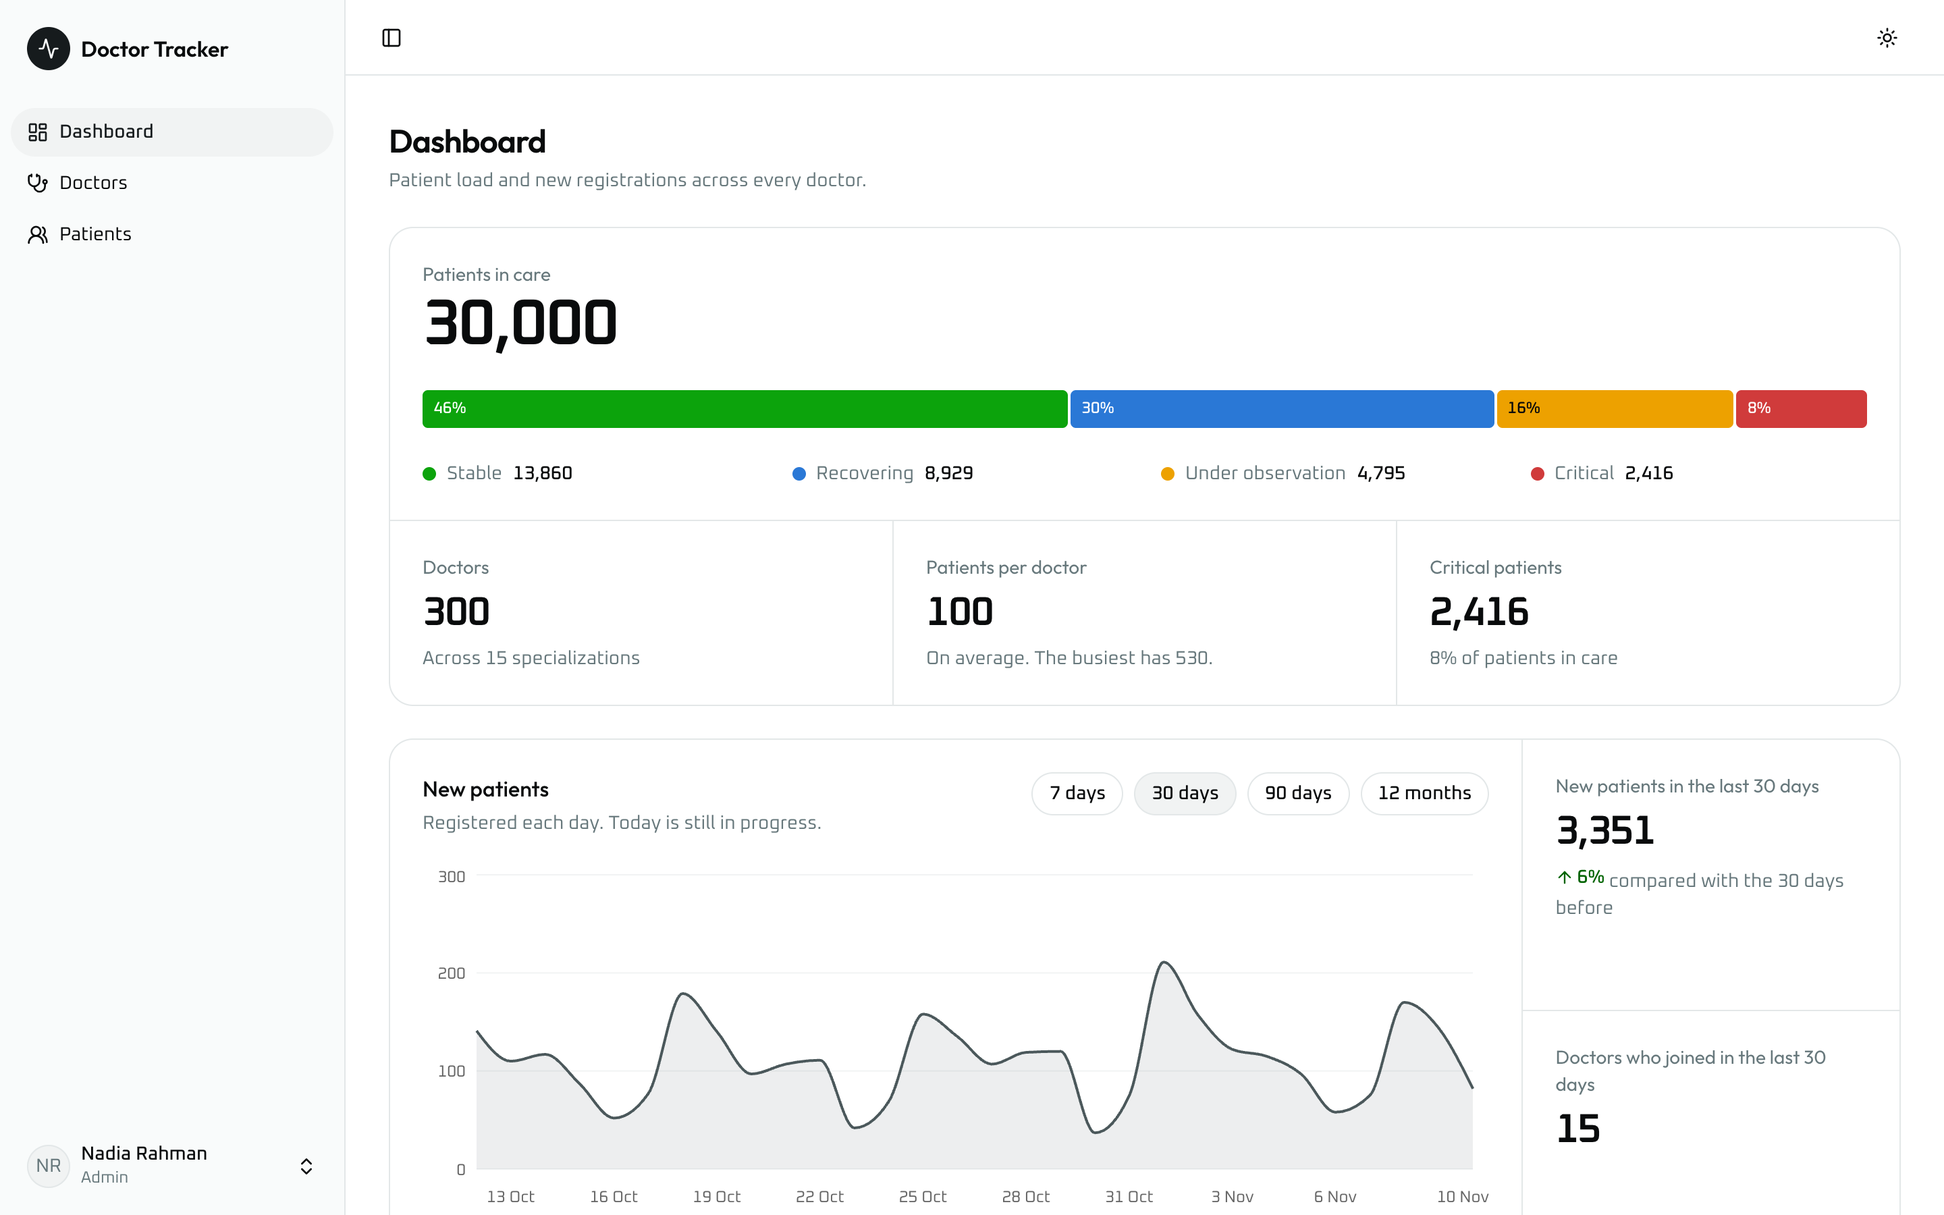
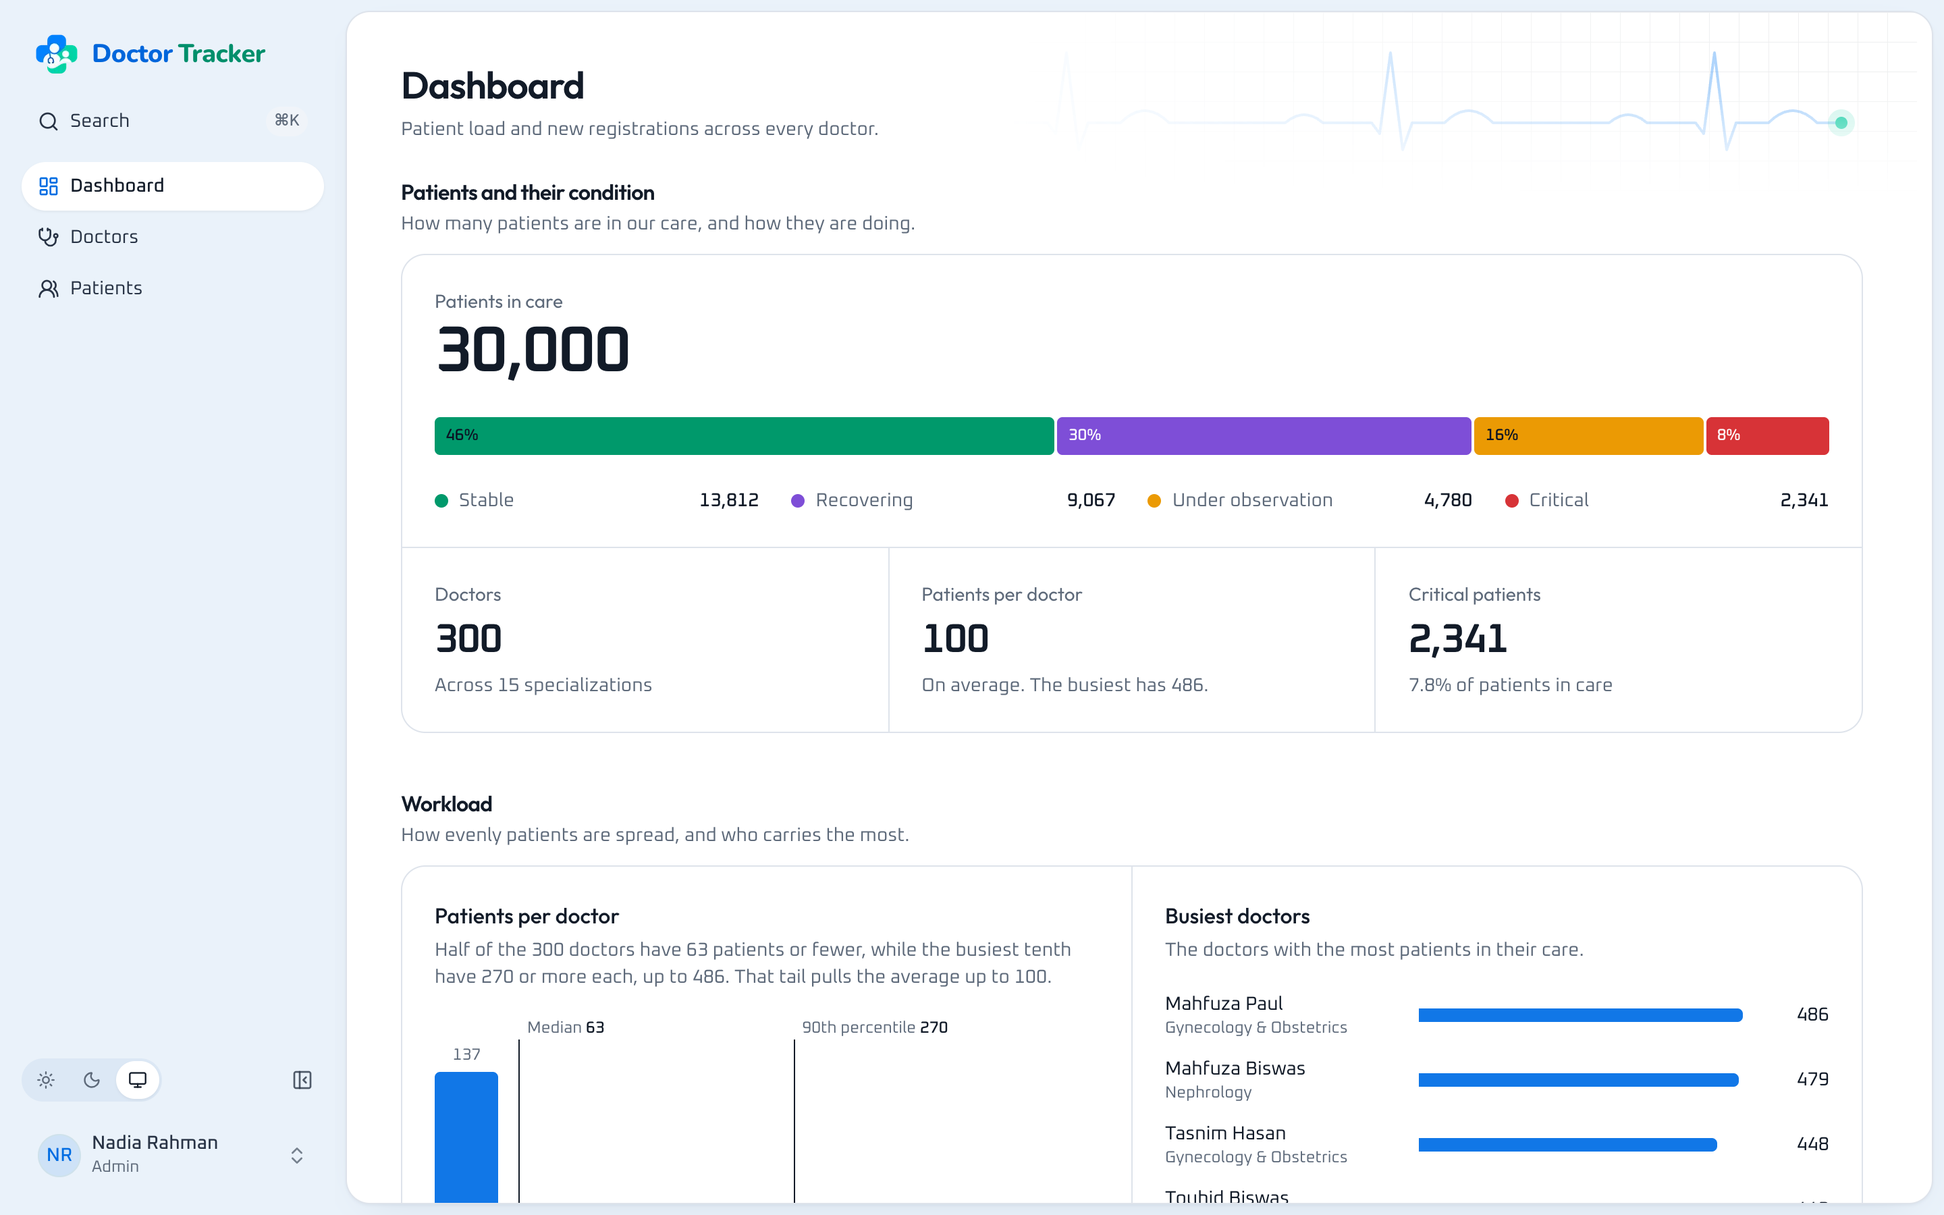
docs: rewrite the README for the new tables, palette, charts and brand, with fresh screenshots

diff --git a/README.md b/README.md
@@ -1,6 +1,15 @@
 # Doctor Tracker
 
-Doctor Tracker is an admin portal for clinics that need to see, at a glance, who their doctors are and how the patients in their care are doing. Signed-in staff can search and filter hundreds of doctors and tens of thousands of patients in a few keystrokes, add and update records, and read a dashboard that puts patient condition first: one bar shows how many patients are stable, recovering, under observation or critical. This repository is the Next.js frontend. It talks to a separate Express and MongoDB API, in the `doctor-tracker-backend` repository, through a client generated from that API's OpenAPI document.
+Doctor Tracker is an admin portal for clinics that need to see, at a glance, who their doctors are and how the patients in their care are doing. Signed-in staff can search, filter and sort hundreds of doctors and tens of thousands of patients in a few keystrokes, add and update records, and read a dashboard that answers the questions an operations lead asks: how are our patients doing, is the load spread evenly, where are the critical cases, and when do people arrive. This repository is the Next.js frontend. It talks to a separate Express and MongoDB API, in the `doctor-tracker-backend` repository, through a client generated from that API's OpenAPI document.
+
+| Area | What is there |
+| --- | --- |
+| Sign-in and access | Email and password against the API's sessions. Every page behind sign-in is protected. Admins can change records; viewers can only read, and the add, edit and delete controls are not rendered for them. |
+| Doctors | Add, edit and delete. Search by name, hospital, phone or email. Filter by specialization, hospital and date added. Sort by name, specialization, hospital, patient count or date added. Each row shows the doctor's patient count beside its split by condition. |
+| A doctor's page | Contact details, three charts about that doctor's patients, and their patient list with its own search, filters and sorting. Add a patient under the doctor, edit one, or delete one from the list. |
+| Patients | Every patient, with search by name, diagnosis or phone, filters for condition, gender, doctor and registration date, sorting (including by severity), paging, edit and delete. |
+| Dashboard | Totals, patients per doctor, the condition breakdown, how evenly the load is spread, where the critical patients are, registrations over time and by weekday and hour, age and gender. |
+| Everywhere | A command palette on `⌘K` / `Ctrl K`, light and dark themes, and layouts for phone, tablet and desktop. |
 
 ## Stack
 
@@ -11,7 +20,7 @@ Doctor Tracker is an admin portal for clinics that need to see, at a glance, who
 - **URL state:** nuqs
 - **Forms:** React Hook Form and Zod 4
 - **Client state:** Zustand, for interface preferences only
-- **Charts:** Recharts, plus plain CSS bars
+- **Charts:** Recharts for the two charts that need axes, plain HTML and CSS for the rest
 - **Auth:** better-auth client, against sessions issued by the API
 
 ## Setup guide
@@ -82,10 +91,10 @@ flowchart LR
 How a page loads:
 
 1. **Guard.** `proxy.ts` checks for a session cookie and redirects signed-out visitors to `/login` before anything renders.
-2. **Static shell.** The sidebar, header and page title are prerendered at build time, so they appear immediately.
+2. **Static shell.** The sidebar, the page title and its artwork, and the loading skeletons are prerendered at build time, so they appear immediately.
 3. **Server fetch.** Inside a Suspense boundary, a server component verifies the session against the API, reads the filters from the URL, and fetches the first page of data with the visitor's cookie.
 4. **Hydration.** That data is sent in the HTML and placed in the TanStack Query cache, so the table is already rendered when JavaScript loads and the browser does not fetch it again.
-5. **Interaction.** From then on, search, filters and paging change the URL, and TanStack Query fetches through `/api/*`, which Next.js rewrites to the API.
+5. **Interaction.** From then on, search, filters, sorting and paging change the URL, and TanStack Query fetches through `/api/*`, which Next.js rewrites to the API.
 
 The browser never calls the API's own domain. Because every request goes through the Next.js origin, the session cookie is first-party and httpOnly, there is no CORS setup, and no token is ever readable from JavaScript.
 
@@ -95,7 +104,7 @@ Access is enforced in three places: the proxy (is there a cookie?), the server c
 src/
   app/
     (auth)/login/          Sign-in page
-    (app)/                 Signed-in area: layout with sidebar and header
+    (app)/                 Signed-in area: sidebar, page panel, command palette
       dashboard/           Analytics
       doctors/             List, and [id] for a doctor's profile and patients
       patients/            List
@@ -103,16 +112,20 @@ src/
   features/
     auth/ doctors/ patients/ dashboard/
                            Each holds its queries, URL params, form schema and components
+    search/                Command palette: frame, lazily loaded body, search hook
   components/
     ui/                    shadcn/ui components
-    data-table/            Shared table, pagination, search, filters, date range
-    app-shell/             Sidebar, header, user menu
+    data-table/            Shared table: sorting, pinning, row menus, pagination, filters
+    charts/                Shared tooltip, keyboard navigation and table view for charts
+    app-shell/             Sidebar, mobile top bar, user menu
+    brand.tsx              Logo and two-colour wordmark
+    page-motif.tsx         The artwork behind each page title
   lib/
     api/                   Generated client, runtime config, ApiError
     session.ts             Server-only: current user and cookie forwarding
     query-client.ts        Query defaults, retry rules, sign-out on 401
-    list-params.ts         URL state shared by every list
-  stores/preferences.ts    Theme and table row spacing
+    list-params.ts         URL state shared by every list, including sort keys
+  stores/preferences.ts    Theme, table row spacing and pinned columns
 ```
 
 ## Technical decisions
@@ -124,10 +137,10 @@ The usual answer to "where does state live" is a single store such as Redux. In 
 | State | Lives in | Why |
 | --- | --- | --- |
 | Doctors, patients, analytics | TanStack Query | It is the server's data. Query handles caching, deduplication, retries, background refresh and invalidation, which a hand-written store would have to reimplement. |
-| Search, filters, sort, page | The URL, through nuqs | A filtered list can be bookmarked, shared and reloaded, and the back button works. The server can also read it, which is what makes the first page server-rendered. |
-| Theme and table row spacing | Zustand, persisted to `localStorage` | The only true global client state: two preferences that many components read. |
+| Search, filters, sort, page, dashboard period | The URL, through nuqs | A filtered, sorted list can be bookmarked, shared and reloaded, and the back button works. The server can also read it, which is what makes the first page server-rendered. |
+| Theme, table row spacing, pinned columns | Zustand, persisted to `localStorage` | The only true global client state: preferences about how the interface looks, which belong to the person and not to a link. |
 
-Zustand over Redux for that last row because the store is under forty lines with no reducers or provider, and a component subscribes to just the field it uses. Redux's strengths, such as middleware, time-travel debugging and strict update patterns, pay off when a large amount of client-owned state changes in complex ways. Here almost nothing is client-owned.
+Zustand over Redux for that last row because the store is under fifty lines with no reducers or provider, and a component subscribes to just the field it uses. Redux's strengths, such as middleware, time-travel debugging and strict update patterns, pay off when a large amount of client-owned state changes in complex ways. Here almost nothing is client-owned.
 
 What this buys in practice:
 
@@ -144,47 +157,92 @@ An authenticated dashboard is commonly built as a client-only app: ship an empty
 
 This app uses Next.js 16's Cache Components to split each page in two:
 
-- **The shell is static.** Sidebar, header, page title and loading skeletons contain nothing user-specific, so they are prerendered at build time and served instantly.
+- **The shell is static.** Sidebar, page title, artwork and loading skeletons contain nothing user-specific, so they are prerendered at build time and served instantly.
 - **The data streams in.** Each page wraps its data in a Suspense boundary. Inside it, a server component reads the URL and the session, fetches the first page from the API with the visitor's cookie, and passes it to TanStack Query through a hydration boundary. The finished table arrives in the same response as real HTML.
 
 After that the browser owns the data, so filtering and paging are client-side fetches with no full page render.
 
-Two details made this work correctly:
+Three details made this work correctly:
 
 - **Session reads are kept out of the layout.** An early version looked up the user at the top of the signed-in layout. That made the entire shell wait for the session, left the prerendered page empty, and produced a server warning on every request. The user menu and the admin-only buttons now each sit in their own small boundary, and the shell is static again. The production build lists every signed-in route as partially prerendered.
-- **Time-zone-dependent requests stay in the browser.** A date filter means "the visitor's days", and the dashboard's daily chart groups by the visitor's time zone, which the server cannot know. Those two requests are skipped on the server and fetched after load, rather than being fetched twice with different parameters.
+- **Time-zone-dependent requests stay in the browser.** A date filter means "the visitor's days", and the dashboard's daily chart and arrival heatmap group by the visitor's time zone, which the server cannot know. Those requests are skipped on the server and fetched after load, rather than being fetched twice with different parameters. On the dashboard they also wait until their section is within a screen of the viewport, so on a laptop screen the dashboard opens without a single API call from the browser, and the last two arrive as someone scrolls towards them.
+- **Nothing shifts when the data lands.** The page panel reserves its scrollbar gutter, and skeletons are sized to the finished content, so a list that grows past the fold does not push the layout sideways.
 
 The trade-off is more moving parts than a client-only app: query keys must match exactly between server and browser, so both build their request through the same function (`toDoctorQuery`, `toPatientQuery`).
 
-### Smaller choices
+### Other decisions
+
+**Tables**
+
+- **Sorting is the API's job.** With 30,000 patients the browser only ever holds one page, so it cannot sort. Each sortable column maps to a sort key the API accepts, and each key is the order of a MongoDB index (the backend README lists them). Condition sorts by severity, not alphabetically, so "critical first" is one click.
+- **Columns can be pinned.** Any column can be pinned to the left or right from its header menu and stays in place while the rest scroll under it. The name and the actions are pinned by default, and the choice is remembered per table. An edge shadow appears only while something is scrolled underneath.
+- **The row's edge is the patient's condition.** A coloured strip runs down the leading edge of every patient row and stays put during sideways scroll, so a column of red is visible before any text is read. The Condition column still names it in words.
+- **One menu, three ways in.** A row's actions are defined once and rendered by both the three-dot button and a right-click menu, so the two cannot drift apart. Links, form fields and selected text keep the browser's own menu. `Shift F10` and long-press open it as well.
+- **Cards below 768 px.** A seven-column table on a phone is a scrolling exercise, so each row becomes a card there and a dropdown takes over sorting.
+
+**Command palette**
+
+- **It costs nothing until it is used.** The shortcut, the dialog frame and the sidebar trigger are in every page's bundle. The body, with the search and the commands, is a separate chunk that downloads on first open, or as soon as the pointer reaches the Search button. Anything typed before it arrives is kept.
+- **A keystroke is two index scans.** Doctors and patients are searched in parallel through the same indexed prefix search the lists use, five results each, after a 200 ms pause. A newer search cancels the one in flight.
+- **Narrowing a search often needs no request.** If an earlier, broader search returned every match it had, typing more letters filters those rows in the browser. The palette splits words exactly as the API does, so the answer is the same one the server would give.
+- **It knows where it is and who is asking.** On a doctor's page it offers "Add a patient to" that doctor. Viewers are not offered any action that creates a record.
+
+**Charts**
+
+- **Each one answers a question, and says the answer.** The description under a chart's title is a sentence computed from the data, for example "Half of the 300 doctors have 63 patients or fewer, while the busiest tenth have 270 or more each." The chart is the evidence, not a puzzle.
+- **The form follows the question.** A distribution is a histogram with the median and 90th percentile marked. Parts of a whole are one segmented bar. A ranking is a sorted bar list. Two dimensions of time, weekday and hour, are a heatmap. There are no pie charts, because comparing angles is harder than comparing lengths.
+- **Colour means condition, and nothing else.** Green, violet, amber and red are reserved for the four patient conditions wherever they appear: badges, row edges, bars, form controls. Every other mark is one blue. The four colours were checked for separation under the common forms of colour blindness and for contrast in both themes, and no chart relies on colour alone.
+- **Comparable by design.** In the condition mix, critical is always the last segment, so the red ends line up down the rows, and a hairline on each bar marks the clinic-wide critical share to compare against.
+- **Usable without a pointer.** Marks have keyboard focus and tooltips, the heatmap and histograms move with the arrow keys from a single tab stop, and the condition mix and heatmap can each be opened as a plain table.
+- **Local conventions.** The heatmap's week starts on Sunday, as the working week does in Bangladesh, and hours are in the visitor's time zone.
+
+**Look and layout**
+
+- **The theme comes from the logo.** Its blue and mint are the two brand colours, each with a light-theme and a dark-theme shade chosen for contrast, and the wordmark is set in the same two colours.
+- **An inset shell.** The sidebar sits on a tinted plane and the page is one rounded panel beside it, with no top bar on desktop. Search, theme and the collapse control live in the sidebar.
+- **Each page has its own header artwork**, drawn in SVG from the logo's cross: a heartbeat trace on the dashboard, a field of crosses for doctors, a ward board for patients. It is part of the prerendered shell and downloads nothing.
+- **On phones** the sidebar becomes a drawer, and a top bar holds the menu button, the logo and the page's main action, so "Add patient" is always one tap away.
+
+**Smaller choices**
 
 - **Generated API client.** Request and response types come from the API's OpenAPI document, so the two repositories cannot drift apart silently. Form schemas are hand-written for friendly messages but checked against the generated types with `satisfies`.
-- **Colour means condition.** The interface is deliberately neutral, and colour is reserved for patient condition wherever it appears: badges, the dashboard bar, form controls. The four colours were checked for colour-blind separation, and every use pairs the colour with a text label. All other chart marks share one neutral ink.
 - **API errors land on fields.** A validation error from the API is shown under the input it refers to, and a duplicate email is reported on the email field.
-- **Responsive tables.** Tables become stacked cards on small screens instead of scrolling sideways, and the sidebar becomes a drawer.
+- **Missing records and failed loads have their own screens**, each with a way back, so a stale link never ends in a blank page.
 
 ## Visual evidence
 
 ### Desktop
 
-| Dashboard | Dashboard, charts |
+| Dashboard | Workload |
 | --- | --- |
-| ![Dashboard with patients by condition](docs/screenshots/desktop-dashboard.png) | ![Registrations chart and busiest doctors](docs/screenshots/desktop-dashboard-charts.png) |
+| ![Patients in care, split by condition, with totals](docs/screenshots/desktop-dashboard.png) | ![Histogram of patients per doctor beside the busiest doctors](docs/screenshots/desktop-dashboard-workload.png) |
 
-| Doctors | Doctor profile |
+| Arrivals | Critical patients, dark theme |
 | --- | --- |
-| ![Doctors list with search and filters](docs/screenshots/desktop-doctors.png) | ![A doctor's profile and patients](docs/screenshots/desktop-doctor-profile.png) |
+| ![Daily registrations and a weekday by hour heatmap](docs/screenshots/desktop-dashboard-arrivals.png) | ![Condition mix by specialization in the dark theme](docs/screenshots/desktop-dashboard-dark.png) |
 
-| Patients, filtered to critical | Dark theme |
+| Doctors, sorted by patients | Doctor profile |
 | --- | --- |
-| ![Patients list filtered by condition](docs/screenshots/desktop-patients.png) | ![Dashboard in the dark theme](docs/screenshots/desktop-dashboard-dark.png) |
+| ![Doctors list with patient counts and condition bars](docs/screenshots/desktop-doctors.png) | ![A doctor's charts and patient list](docs/screenshots/desktop-doctor-profile.png) |
 
-| Sign in |
-| --- |
-| ![Sign-in page with demo accounts](docs/screenshots/desktop-login.png) |
+| Patients, critical first | Sorting and pinning |
+| --- | --- |
+| ![Patients list sorted by severity with coloured row edges](docs/screenshots/desktop-patients.png) | ![Column menu with sort and pin options over a table scrolled sideways](docs/screenshots/desktop-patients-pinned.png) |
+
+| Right-click menu | Command palette |
+| --- | --- |
+| ![A row's actions opened by right click](docs/screenshots/desktop-patients-context-menu.png) | ![Searching doctors and patients from the command palette](docs/screenshots/desktop-command-palette.png) |
+
+| Patients, dark theme | Sign in |
+| --- | --- |
+| ![Critical patients sorted by age in the dark theme](docs/screenshots/desktop-patients-dark.png) | ![Sign-in page with demo accounts](docs/screenshots/desktop-login.png) |
 
 ### Mobile
 
-| Dashboard | Doctors | Patients | Navigation |
+| Dashboard | Condition mix | Arrival heatmap | Navigation |
 | --- | --- | --- | --- |
-| ![Dashboard on a phone](docs/screenshots/mobile-dashboard.png) | ![Doctors as cards on a phone](docs/screenshots/mobile-doctors.png) | ![Patients as cards on a phone](docs/screenshots/mobile-patients.png) | ![Navigation drawer on a phone](docs/screenshots/mobile-navigation.png) |
+| ![Dashboard on a phone](docs/screenshots/mobile-dashboard.png) | ![Condition mix on a phone](docs/screenshots/mobile-condition-mix.png) | ![Heatmap turned on its side for a phone](docs/screenshots/mobile-heatmap.png) | ![Navigation drawer on a phone](docs/screenshots/mobile-navigation.png) |
+
+| Doctors | Patients | Doctor profile |
+| --- | --- | --- |
+| ![Doctors as cards on a phone](docs/screenshots/mobile-doctors.png) | ![Patients as cards on a phone](docs/screenshots/mobile-patients.png) | ![A doctor's profile on a phone](docs/screenshots/mobile-doctor-profile.png) |
